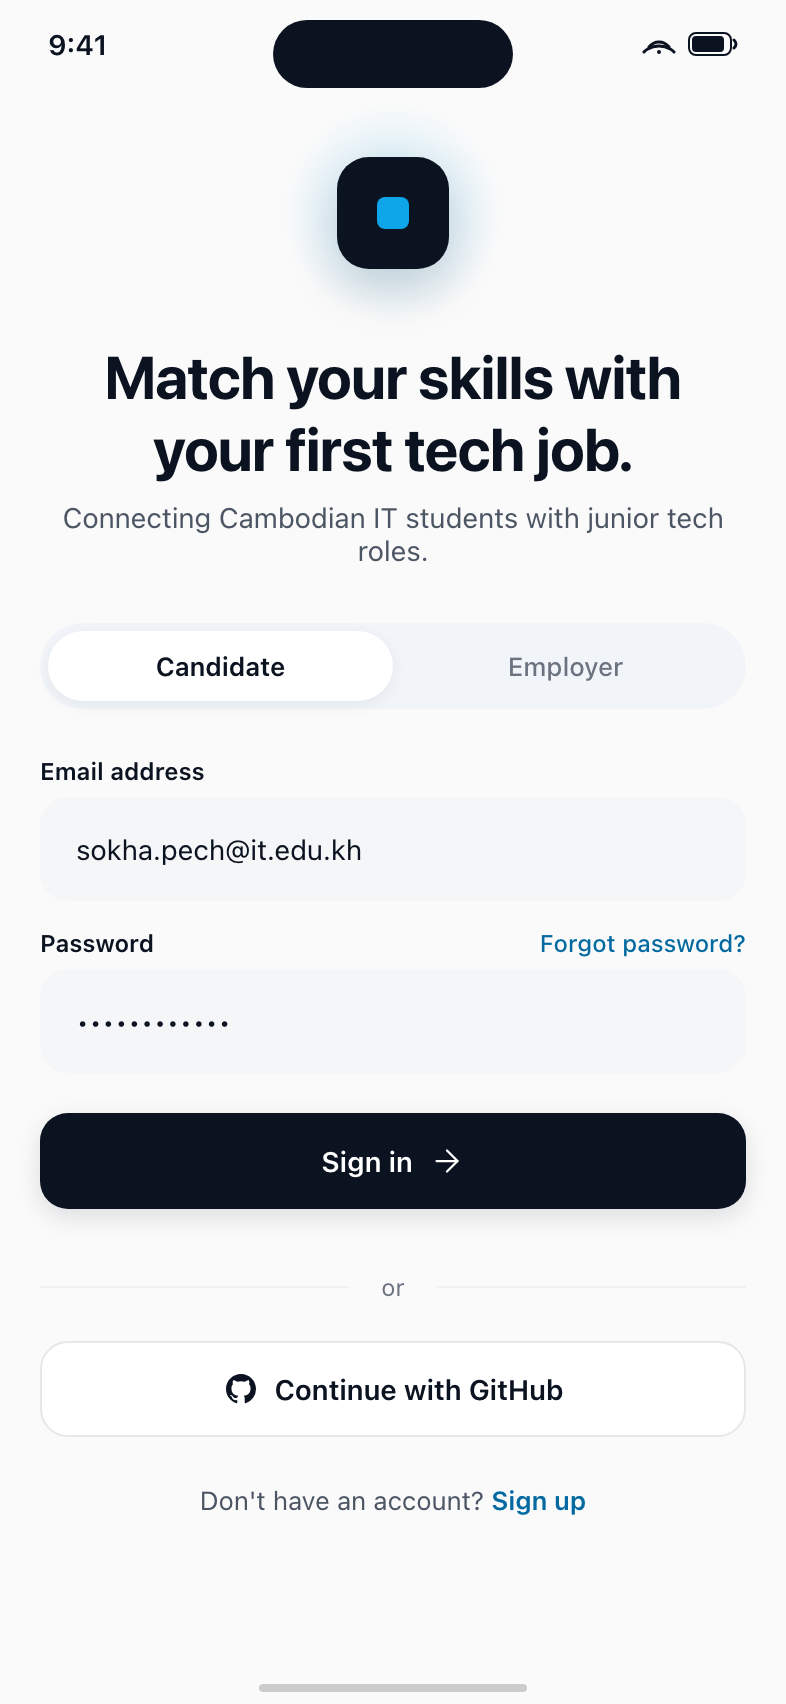
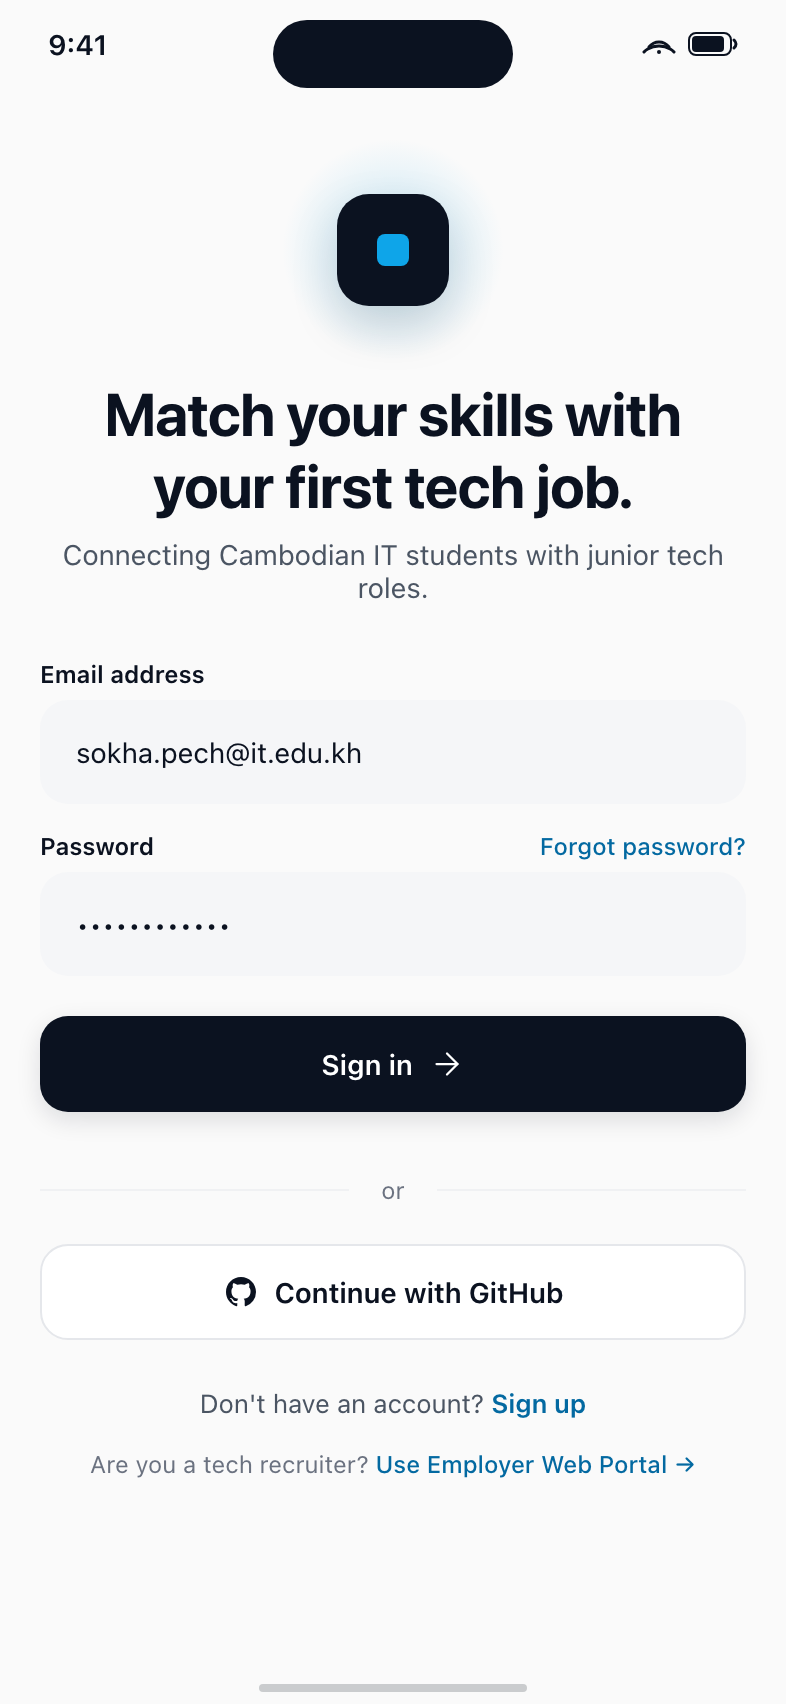
fix(design): remove employer toggle from candidate mobile login screen

diff --git a/context/assets/figma/importable/SCR-01_login.html b/context/assets/figma/importable/SCR-01_login.html
@@ -230,16 +230,6 @@
     Connecting Cambodian IT students with junior tech roles.
   </p>
 
-  <!-- Segmented Control with sliding thumb -->
-  <div style="background: #F1F5F9; border-radius: 9999px; padding: 4px; display: flex; margin-bottom: 24px;">
-    <div style="flex: 1; text-align: center; padding: 10px; font-size: 13px; font-weight: 600; background: #FFFFFF; color: #0B1220; border-radius: 9999px; box-shadow: 0 2px 8px rgba(11, 18, 32, 0.06);">
-      Candidate
-    </div>
-    <div style="flex: 1; text-align: center; padding: 10px; font-size: 13px; font-weight: 500; color: #6B7280; cursor: pointer;">
-      Employer
-    </div>
-  </div>
-
   <!-- Form Fields -->
   <div style="display: flex; flex-direction: column; gap: 14px; margin-bottom: 20px;">
     <div>
@@ -274,6 +264,10 @@
 
   <div style="text-align: center; margin-top: 24px; font-size: 13px; color: #4B5563;">
     Don't have an account? <span style="color: #0369A1; font-weight: 600; cursor: pointer;">Sign up</span>
+  </div>
+
+  <div style="text-align: center; margin-top: 16px; font-size: 12px; color: #6B7280;">
+    Are you a tech recruiter? <span style="color: #0369A1; font-weight: 500; cursor: pointer;">Use Employer Web Portal &rarr;</span>
   </div>
 </div>
 

diff --git a/context/assets/figma/importable/devpath_redesign_master_board.html b/context/assets/figma/importable/devpath_redesign_master_board.html
@@ -525,16 +525,6 @@
     Connecting Cambodian IT students with junior tech roles.
   </p>
 
-  <!-- Segmented Control with sliding thumb -->
-  <div style="background: #F1F5F9; border-radius: 9999px; padding: 4px; display: flex; margin-bottom: 24px;">
-    <div style="flex: 1; text-align: center; padding: 10px; font-size: 13px; font-weight: 600; background: #FFFFFF; color: #0B1220; border-radius: 9999px; box-shadow: 0 2px 8px rgba(11, 18, 32, 0.06);">
-      Candidate
-    </div>
-    <div style="flex: 1; text-align: center; padding: 10px; font-size: 13px; font-weight: 500; color: #6B7280; cursor: pointer;">
-      Employer
-    </div>
-  </div>
-
   <!-- Form Fields -->
   <div style="display: flex; flex-direction: column; gap: 14px; margin-bottom: 20px;">
     <div>
@@ -569,6 +559,10 @@
 
   <div style="text-align: center; margin-top: 24px; font-size: 13px; color: #4B5563;">
     Don't have an account? <span style="color: #0369A1; font-weight: 600; cursor: pointer;">Sign up</span>
+  </div>
+
+  <div style="text-align: center; margin-top: 16px; font-size: 12px; color: #6B7280;">
+    Are you a tech recruiter? <span style="color: #0369A1; font-weight: 500; cursor: pointer;">Use Employer Web Portal &rarr;</span>
   </div>
 </div>
 

diff --git a/context/phase-04/01_figma_specifications.md b/context/phase-04/01_figma_specifications.md
@@ -118,7 +118,7 @@ The system provides 12 distinct screens covering both user surfaces (Candidate M
 
 | Screen ID | Screen name | Surface | Purpose | User journey | Endpoint | Feature |
 |---|---|---|---|---|---|---|
-| **SCR-01** | Candidate Login & Welcome | Mobile | Bold hero headline "Match your skills with your first tech job." with soft sky glow, sliding segmented control, filled inputs, ink-black Sign In, and real GitHub button. | UJ-01 | EP-03, EP-04 | Baseline |
+| **SCR-01** | Candidate Login & Welcome | Mobile | Bold hero headline "Match your skills with your first tech job." with soft sky glow, filled inputs, ink-black Sign In, real GitHub button, and discrete web portal link for recruiters. | UJ-01 | EP-03, EP-04 | Baseline |
 | **SCR-02** | Registration & Skills Selection | Mobile | Segmented progress bar, "What do you build with?" heading, search input, category skill pills (selected with sky tint + check), and sticky bottom bar. | UJ-01 | EP-02, EP-05, EP-08 | F-01 |
 | **SCR-03** | Candidate Job Board & Search | Mobile | "Hi Sokha" greeting with avatar and bell icon, integrated search & filter, ink category chips, job cards with compact match ring, and floating bottom nav. | UJ-02 | EP-10 | F-02, F-03 |
 | **SCR-04** | Job Details & Skill Fit Analyzer | Mobile | Hero card with large 96px match ring, "You match 2 of 3 required skills", matched vs missing chip groups, sky Preparation Hub tip, and sticky bottom bar. | UJ-03, UJ-04, UJ-07 | EP-11, EP-12, EP-14, EP-16 | F-02, F-03, F-06 |
